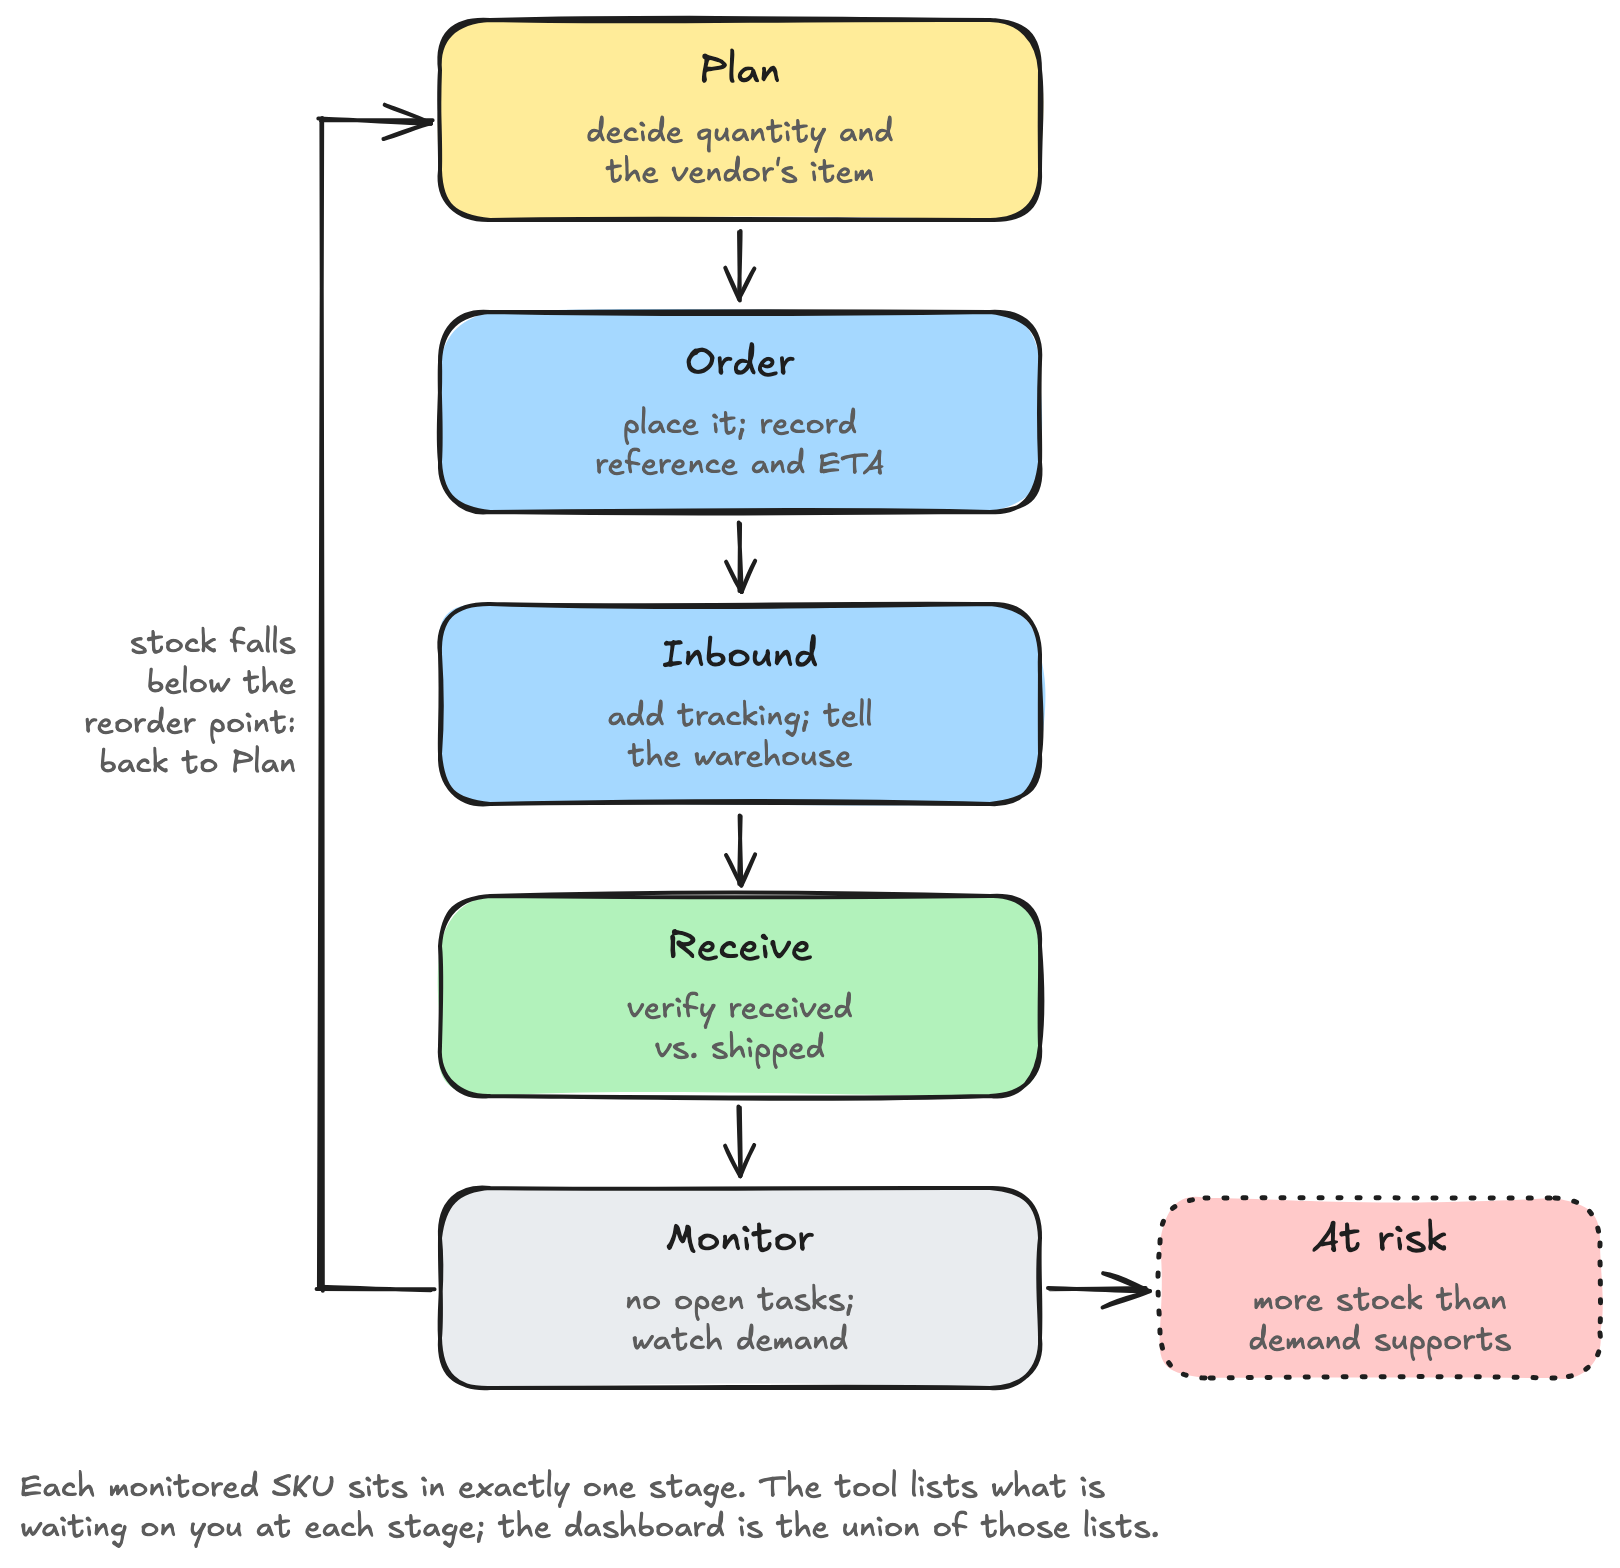
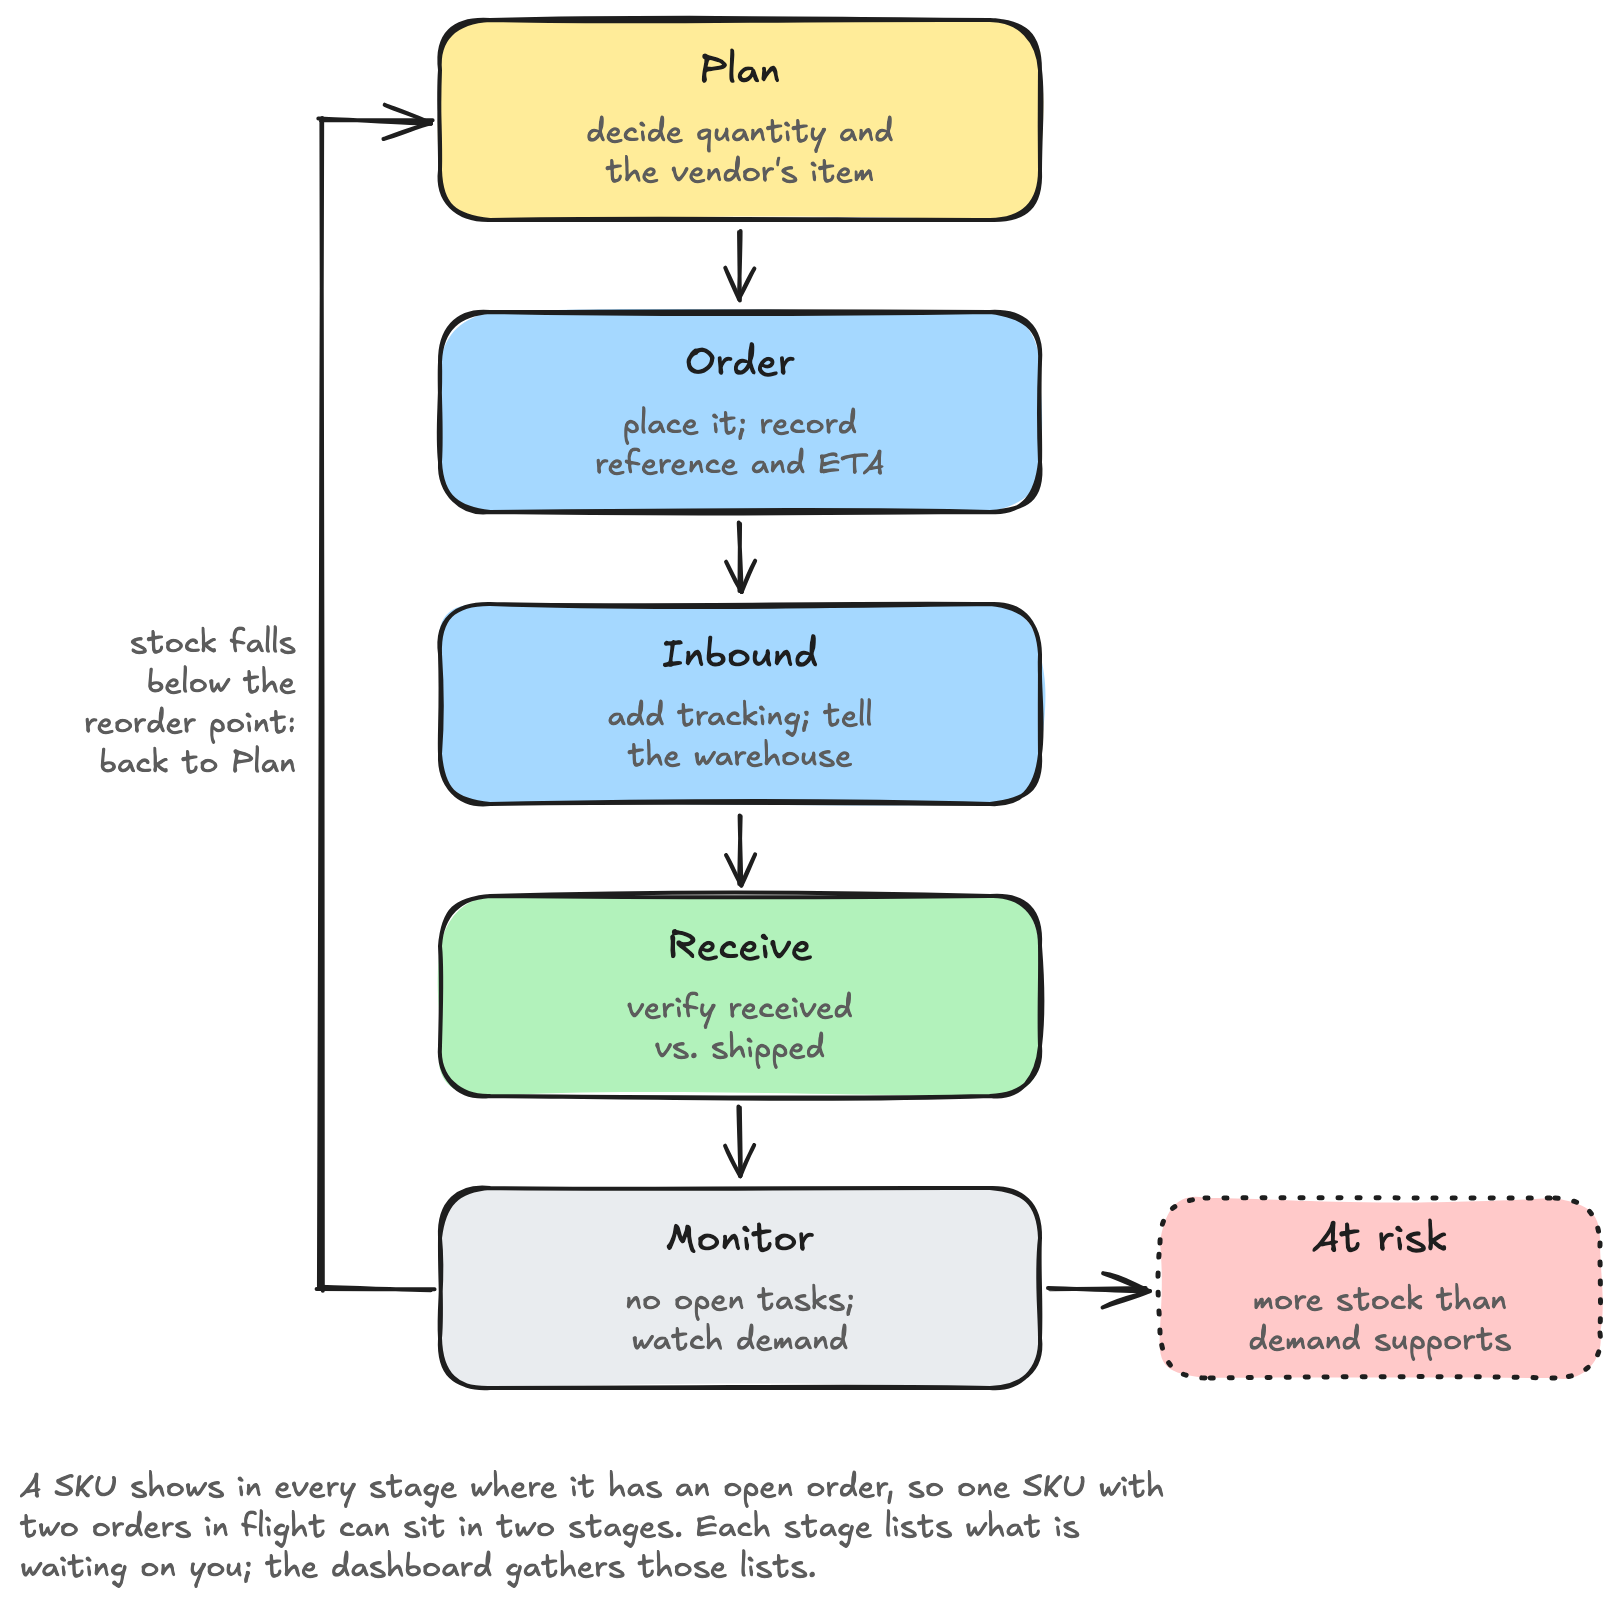
Pipeline caption: a SKU can sit in several stages at once
The stages are order states; a SKU with two orders in flight appears in
two stages. The earlier caption claimed exactly one stage per SKU.

diff --git a/diagrams/generate-inventory-ops.py b/diagrams/generate-inventory-ops.py
@@ -140,8 +140,9 @@ def pipeline():
     # Caption.
     bottom = cys[-1] + H / 2 + 40
     els.append(text(lx - 150, bottom,
-                    "Each monitored SKU sits in exactly one stage. The tool lists what is\n"
-                    "waiting on you at each stage; the dashboard is the union of those lists.",
+                    "A SKU shows in every stage where it has an open order, so one SKU with\n"
+                    "two orders in flight can sit in two stages. Each stage lists what is\n"
+                    "waiting on you; the dashboard gathers those lists.",
                     16, "left", MUTED))
     return doc(els)
 
